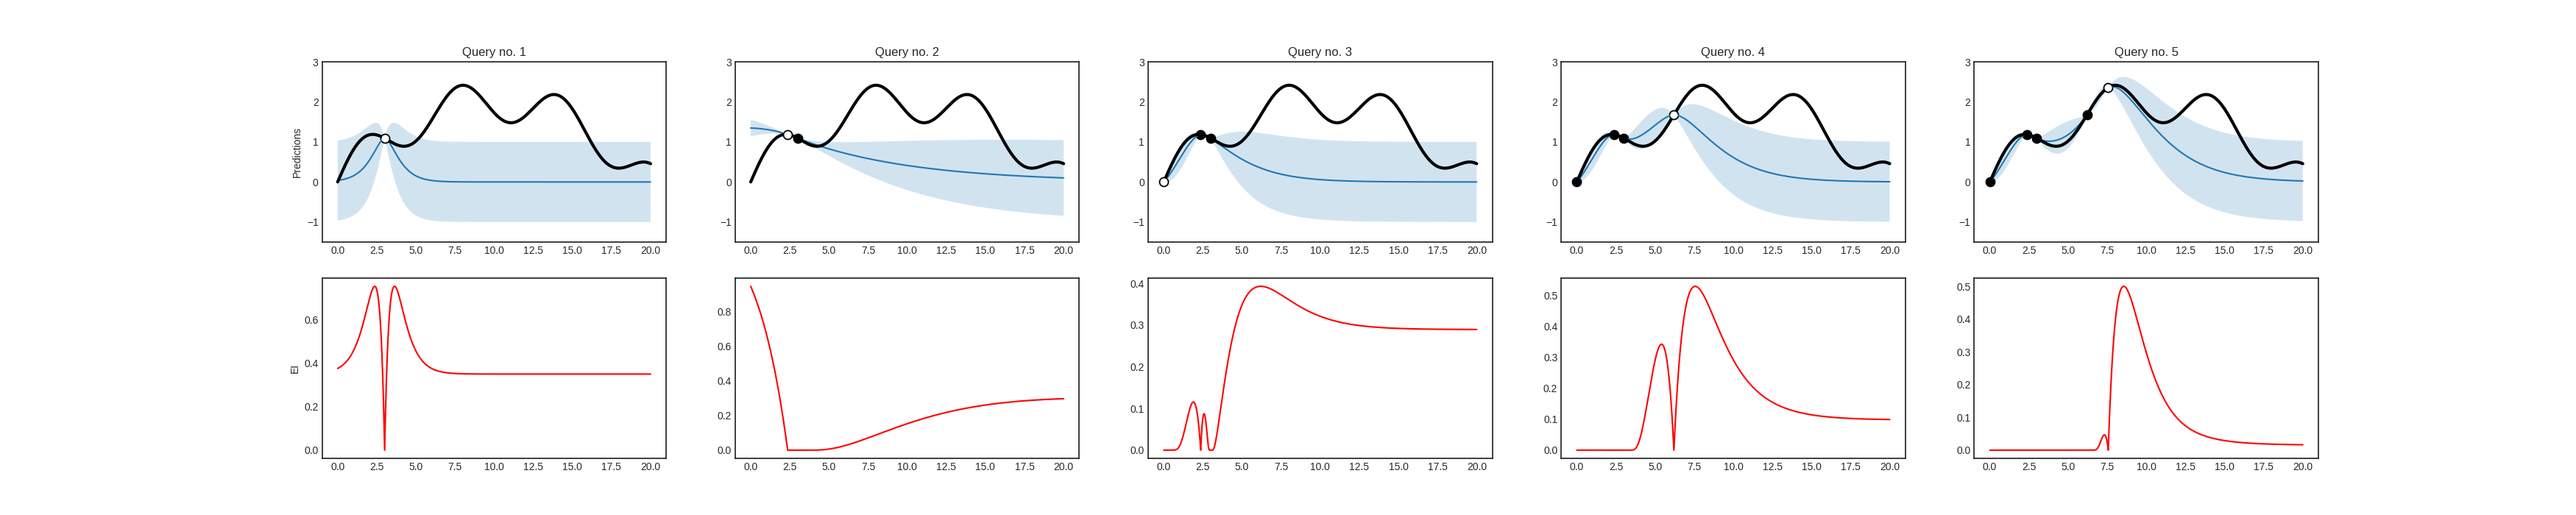
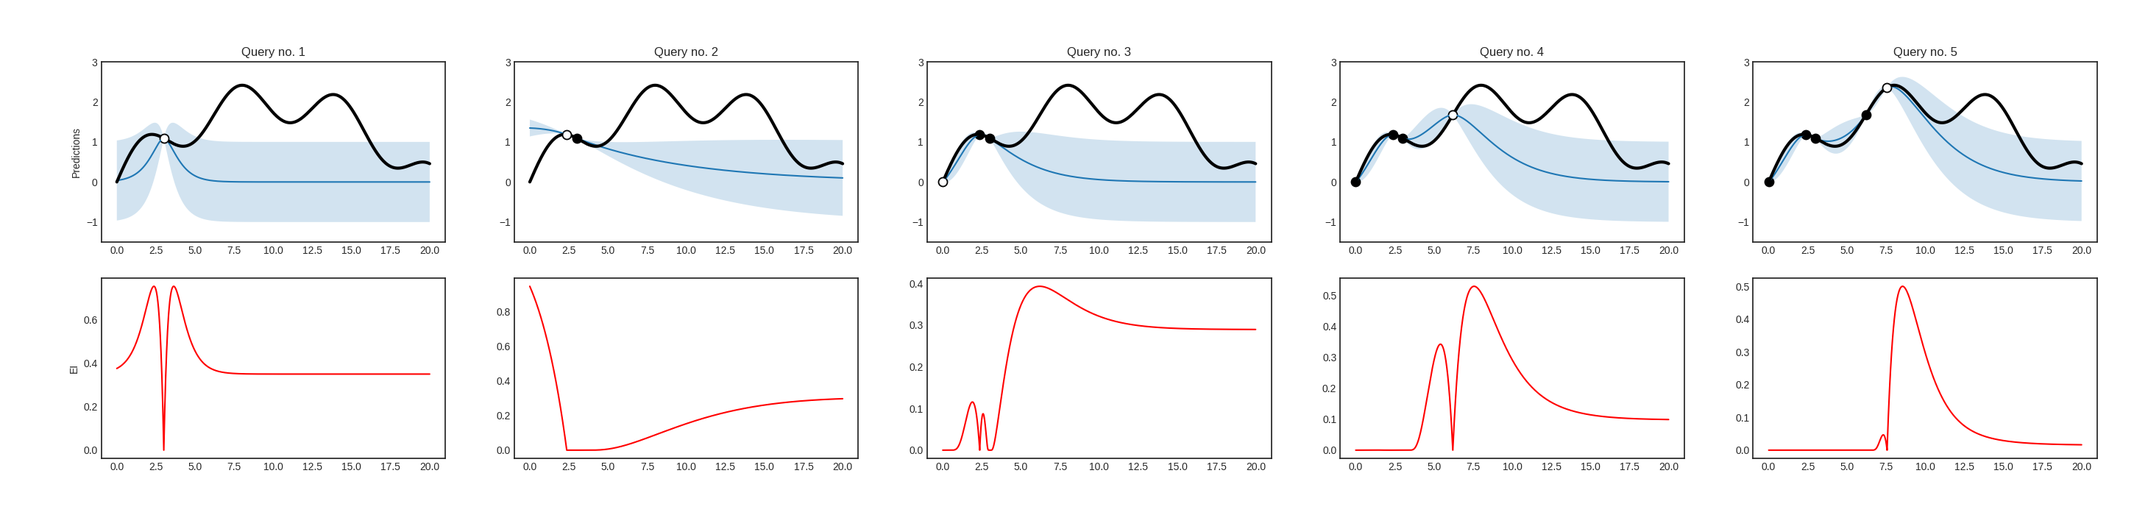
Bayesian optimization example added

diff --git a/_includes/sidebar.html b/_includes/sidebar.html
@@ -27,6 +27,7 @@
         <a class="sidebar-nav-item" href="Stream-based-sampling">Stream-based sampling</a>
         <a class="sidebar-nav-item" href="Active-regression">Active regression</a>
         <a class="sidebar-nav-item" href="Ensemble-regression">Ensemble regression</a>
+        <a class="sidebar-nav-item" href="Bayesian-optimization">Bayesian optimization</a>
         <a class="sidebar-nav-item" href="Query-by-committee">Query by committee</a>
         <a class="sidebar-nav-item" href="Bootstrapping-and-bagging">Bootstrapping and bagging</a>
         <a class="sidebar-nav-item" href="Keras-integration">Keras integration</a>

diff --git a/Bayesian-optimization.md b/Bayesian-optimization.md
@@ -1,0 +1,48 @@
+# Bayesian optimization
+
+When a function is expensive to evaluate, or when gradients are not available, optimalizing it requires more sophisticated methods than gradient descent. One such method is Bayesian optimization, which lies close to active learning. In Bayesian optimization, instead of picking queries by maximizing the uncertainty of predictions, function values are evaluated at points where the promise of finding a better value is large. In modAL, these algorithms are implemented with the ```BayesianOptimizer``` class, which is a sibling of ```ActiveLearner```. In the following example, their use is demonstrated on a toy problem.
+
+## The function to be optimized
+
+```python
+import numpy as np
+
+# generating the data
+X = np.linspace(0, 20, 1000).reshape(-1, 1)
+y = np.sin(X)/2 - ((10 - X)**2)/50 + 2
+```
+
+## Gaussian processes
+
+```python
+# assembling initial training set
+X_initial, y_initial = X[150].reshape(1, -1), y[150].reshape(1, -1)
+
+# defining the kernel for the Gaussian process
+from sklearn.gaussian_process import GaussianProcessRegressor
+from sklearn.gaussian_process.kernels import Matern
+kernel = Matern(length_scale=1.0)
+regressor = GaussianProcessRegressor(kernel=kernel)
+```
+
+## Optimizing using Expected improvement
+
+```python
+# initializing the optimizer
+from modAL.models import BayesianOptimizer
+from modAL.acquisition import max_EI
+optimizer = BayesianOptimizer(
+    estimator=regressor,
+    X_training=X_initial, y_training=y_initial,
+    query_strategy=max_EI
+)
+
+# Bayesian optimization
+for n_queries in range(4):
+    query_idx, query_inst = optimizer.query(X)
+    optimizer.teach(X[query_idx].reshape(1, -1), y[query_idx].reshape(1, -1))
+```
+
+![](img/bo-EI.png)
+![](img/bo-PI.png)
+![](img/bo-UCB.png)

diff --git a/README.md b/README.md
@@ -154,6 +154,7 @@ Including this, many examples are available:
 - [Stream-based sampling](Stream-based-sampling)  
 - [Active regression](Active-regression)  
 - [Ensemble regression](Ensemble-regression)  
+- [Bayesian optimization](Bayesian-optimization)  
 - [Query by committee](Query-by-committee)  
 - [Bootstrapping and bagging](Bootstrapping-and-bagging)  
 - [Keras integration](Keras-integration)
